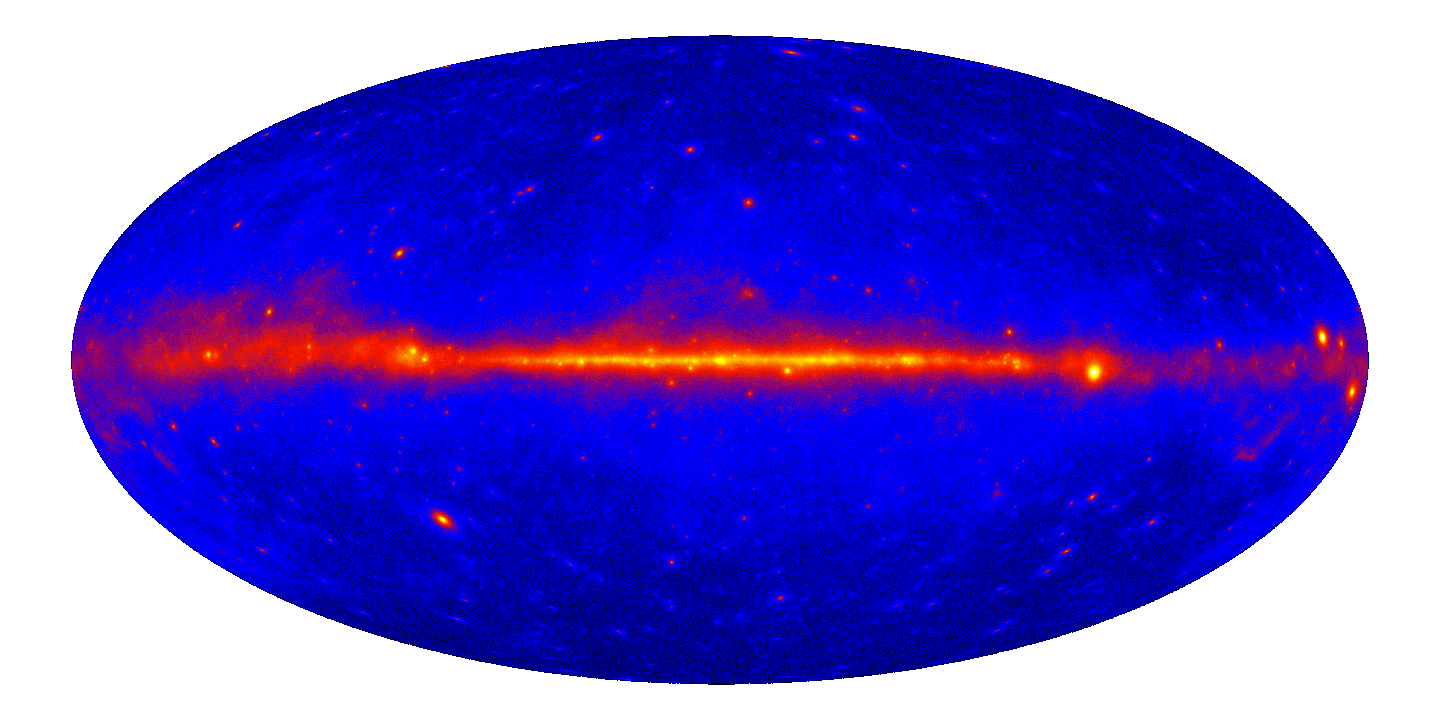
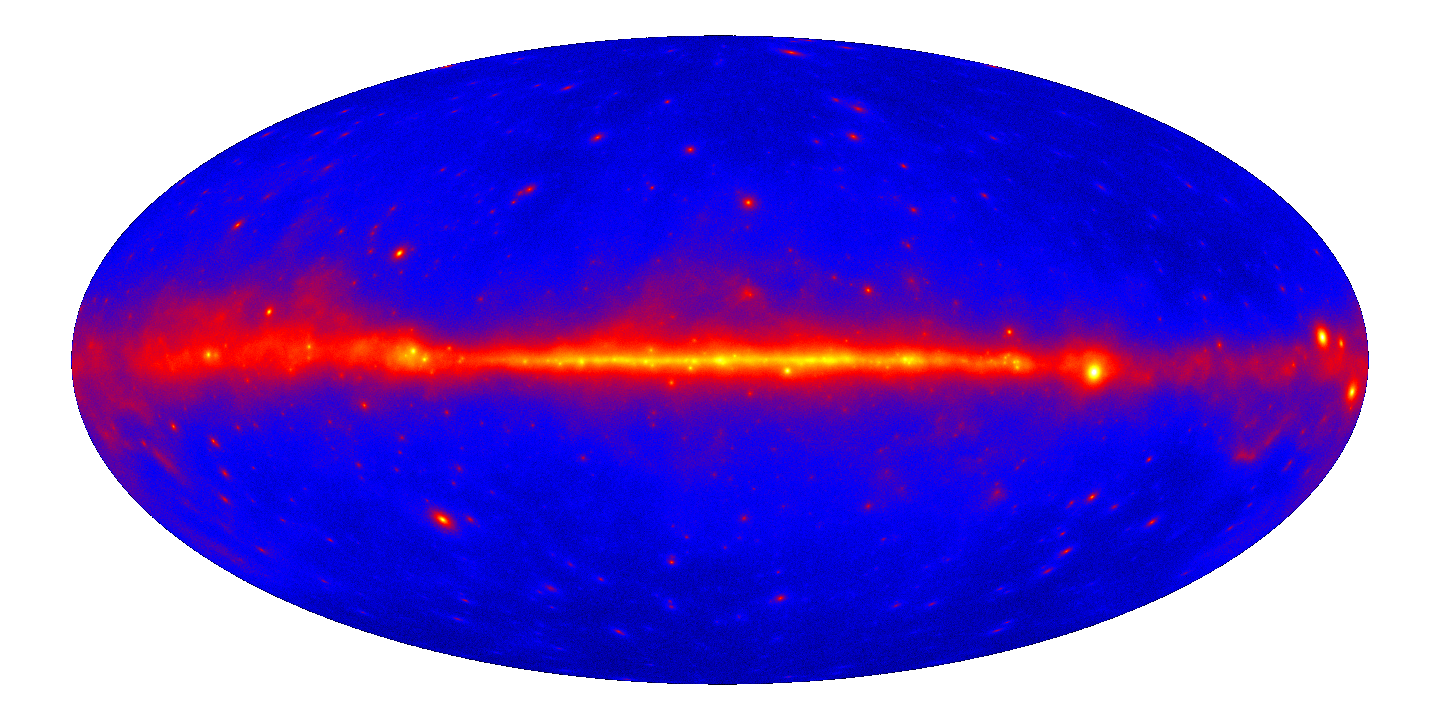
- Updated tevcat_all.py to suppor the latest TeVCat format - Changed version from 1.1.3 to 1.1.4 - Updated the Fermi images with 5 years data

diff --git a/PyTeVCat/src/tevcat/tevcat_all.py b/PyTeVCat/src/tevcat/tevcat_all.py
@@ -10,18 +10,40 @@ import json
 import astropysics.coords
 import pkg_resources
 
-observatory_names = ('', 'Whipple', 'Telescope Array', 'HEGRA', '',
-                     'CANGAROO', 'H.E.S.S.', 'MAGIC', 'Milagro', 'Durham',
-                     'Crimea', '', '', '', 'VERITAS',
-                     'Potchefstroom')
+observatory_names = {1:  'Whipple',
+                     2:  'Telescope Array',
+                     3:  'HEGRA',
+                     5:  'CANGAROO',
+                     6:  'H.E.S.S.',
+                     7:  'MAGIC',
+                     8:  'Milagro',
+                     9:  'Durham',
+                     10: 'Crimea',
+                     14: 'VERITAS',
+                     15: 'Potchefstroom',
+                     19: 'ARGO-YBJ'}
 
-source_type_names = ('', 'HBL', '', '', '',
-                     '', '', 'DARK', 'FRI', '',
-                     'LBL', '', '', 'PSR', 'PWN',
-                     '', 'Shell', 'Starburst', 'UNID', '',
-                     '', 'XRB', 'Cat. Var.', '', 'FSRQ',
-                     'IBL', '', 'Gamma BIN', '', 'SNR/Molec. Cloud',
-                     'Massive Star Cluster', 'AGN (unknown type)', 'Star Forming Region', 'Globular Cluster', '')
+source_type_names = {1:  'HBL',
+                     7:  'DARK',
+                     8:  'FRI',
+                     10: 'LBL',
+                     13: 'PSR',
+                     14: 'PWN',
+                     16: 'Shell',
+                     17: 'Starburst',
+                     18: 'UNID',
+                     21: 'XRB',
+                     22: 'Cat. Var.',
+                     24: 'FSRQ',
+                     25: 'IBL',
+                     27: 'Gamma BIN',
+                     29: 'SNR/Molec. Cloud',
+                     30: 'Massive Star Cluster',
+                     31: 'AGN (unknown type)',
+                     32: 'Star Forming Region',
+                     33: 'Globular Cluster',
+                     35: 'Binary',
+                     36: 'Composite SNR'}
 
 class TeVCat(object):
     def __init__(self):
@@ -101,7 +123,7 @@ class Source(object):
         self.tevcat = tevcat
         
         self.observatory_name = str(source[u'observatory_name'])
-        if self.observatory_name not in observatory_names:
+        if self.observatory_name not in observatory_names.values():
             print 'Unknown observatory name found: ', self.observatory_name
 
         self.discoverer = int(source[u'discoverer'])
@@ -150,7 +172,7 @@ class Source(object):
         self.coord_type = source[u'coord_type'] # No use? always null or 0
 
         self.source_type_name = str(source[u'source_type_name'])
-        if self.source_type_name not in source_type_names:
+        if self.source_type_name not in source_type_names.values():
             print 'Unknown source type name found: ', self.source_type_name
         if source_type_names[self.source_type] != self.source_type_name:
             print '"source_type" (%d) does not match with "source_type_name" (%s)' % (self.source_type, self.source_type_name)
@@ -655,7 +677,7 @@ else:
                 gra.SetMarkerSize(1)
 
             # Draw legend
-            self.legend = ROOT.TLegend(0., 0., 0.22, 0.21)
+            self.legend = ROOT.TLegend(0., 0., 0.22, 0.18)
             self.legend.SetNColumns(2)
             self.legend.SetBorderSize(0)
             self.legend.SetFillStyle(0)
@@ -705,7 +727,7 @@ else:
 
             text = ROOT.TGText('')
             info = nearby_source.__str__().replace(u'\xb0', u'') # another candidate?
-            info = str(info.replace(u'\u2212', u'-'))
+            info = str(info.replace(u'\u2212', u'-').replace(u'\u2013', u'-'))
             
             for i, line in enumerate(info.split('\n')):
                 text.InsLine(i, line)

diff --git a/PyTeVCat/src/setup.py b/PyTeVCat/src/setup.py
@@ -6,13 +6,13 @@ $Id$
 from numpy.distutils.core import setup
 
 setup(name="PyTeVCat",
-      version="1.1.3",
+      version="1.1.4",
       description="Python wrapper for TeVCat",
       author="Akira Okumura",
       author_email="oxon@mac.com",
       url='https://sourceforge.net/p/pytevcat/',
       license='BSD License',
-      platforms=['MacOS :: MacOS X', 'POSIX', 'Windows'],
+      platforms=['MacOS :: MacOS X', 'POSIX'],
       packages=["tevcat"],
       install_requires=['astropysics', 'networkx'],
       package_data={"tevcat": ["img/*.png",]},
